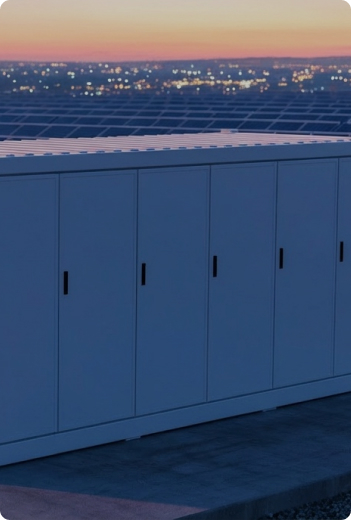
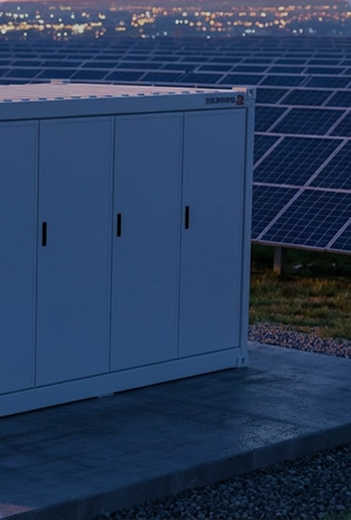
feat(web): mobile hero slide0 with headline, LithTech, centered layout
- Prepend slide0.jpg to mobile strip; title WE/SUPPLY/ENABLE/SUPPORT, powered-by row, text-center.

- Add slide0.jpg; refresh mobile slider images; i18n slide0 in all locales.

- Align Hero.mobile-cards-backup with slide0 + overlay on slide1.

Made-with: Cursor

diff --git a/apps/web/src/components/home/Hero.tsx b/apps/web/src/components/home/Hero.tsx
@@ -4,7 +4,10 @@ import { Trans, useTranslation } from 'react-i18next'
 import { ArrowRightIcon } from '../ArrowRightIcon'
 import { assetUrl } from '@/lib/assetUrl'
 
-const MOBILE_SLIDER_IMAGES = Array.from({ length: 8 }, (_, i) => assetUrl(`/images/mobile%20slider/slide${i + 1}.jpg`))
+const MOBILE_SLIDER_IMAGES = [
+  assetUrl('/images/mobile%20slider/slide0.jpg'),
+  ...Array.from({ length: 8 }, (_, i) => assetUrl(`/images/mobile%20slider/slide${i + 1}.jpg`)),
+]
 
 const HERO_SLIDER_TAB_KEYS = [
   'home.hero.sliderTabs.industrial',
@@ -87,7 +90,7 @@ export function Hero() {
           </h2>
         </div>
 
-        {/* Mobile: 8 cards — aspect ratio + percentage width */}
+        {/* Mobile: 9 cards (slide0 + slide1–8) — aspect ratio + percentage width */}
         <div className="-mx-4 flex w-[calc(100%+2rem)] gap-[10px] overflow-x-auto px-4 scrollbar-hide md:hidden">
           {MOBILE_SLIDER_IMAGES.map((src, i) => (
             <div key={i} className="relative aspect-[320/500] w-[85vw] min-w-[85vw] shrink-0 sm:w-[75vw] sm:min-w-[75vw]">
@@ -98,7 +101,7 @@ export function Hero() {
                 className="absolute inset-0 h-full w-full rounded-[10px] object-cover"
                 draggable={false}
               />
-              {i > 1 ? <div className="absolute inset-0 rounded-[10px] bg-black/40" aria-hidden /> : null}
+              {i > 2 ? <div className="absolute inset-0 rounded-[10px] bg-black/40" aria-hidden /> : null}
               {i === MOBILE_SLIDER_IMAGES.length - 1 ? (
                 <div className="absolute left-0 top-0 pt-4 pl-4" aria-hidden>
                   <svg className="h-6 w-6 text-white sm:h-7 sm:w-7" viewBox="0 0 24 24" fill="none" stroke="currentColor" strokeWidth="2" strokeLinecap="round" strokeLinejoin="round">
@@ -113,6 +116,25 @@ export function Hero() {
                 </div>
               )}
               {i === 0 && (
+                <div className="absolute inset-x-0 bottom-0 flex flex-col items-center justify-end gap-3 px-4 pb-8 pt-4 text-center">
+                  <h3 className="font-heading whitespace-pre-line text-3xl font-black uppercase leading-tight tracking-tight text-white sm:text-4xl">
+                    {t('home.heroSlides.slide0.title')}
+                  </h3>
+                  <div className="flex flex-wrap items-center justify-center gap-1.5 font-nunito text-xs font-normal text-white/90">
+                    <span>{t('home.hero.poweredByLabel')}</span>
+                    <a
+                      href="https://www.ltc-energy.com/"
+                      target="_blank"
+                      rel="noopener noreferrer"
+                      className="transition-opacity hover:opacity-100"
+                      aria-label="LithTech"
+                    >
+                      <img src={assetUrl('/images/lithtech-logo-white 3.png')} alt="LithTech" className="h-4 w-auto object-contain sm:h-5" />
+                    </a>
+                  </div>
+                </div>
+              )}
+              {i === 1 && (
                 <div className="absolute inset-x-0 bottom-0 flex flex-col items-end justify-end gap-3 px-4 pb-8 pt-4 text-right">
                   <h3 className="font-heading whitespace-pre-line text-3xl font-black uppercase leading-tight tracking-tight text-white sm:text-4xl">
                     {t('home.heroSlides.slide1.title')}
@@ -131,14 +153,14 @@ export function Hero() {
                   </div>
                 </div>
               )}
-              {i === 1 && (
+              {i === 2 && (
                 <div className="absolute inset-x-0 bottom-0 flex flex-col items-start justify-end px-4 pb-8 pt-4 text-left">
                   <p className="font-body text-base font-normal leading-relaxed text-white/95 sm:text-lg">
                     {t('home.heroSlides.slide1.subtitle')}
                   </p>
                 </div>
               )}
-              {i === 2 && (
+              {i === 3 && (
                 <div className="absolute inset-x-0 bottom-0 flex flex-col items-end justify-end gap-3 px-4 pb-8 pt-4 text-right">
                   <h3 className="font-heading whitespace-pre-line text-3xl font-black uppercase leading-tight tracking-tight text-white sm:text-4xl">
                     {t('home.heroSlides.slide2.title')}
@@ -157,14 +179,14 @@ export function Hero() {
                   </div>
                 </div>
               )}
-              {i === 3 && (
+              {i === 4 && (
                 <div className="absolute inset-x-0 bottom-0 flex flex-col items-start justify-end px-4 pb-8 pt-4 text-left">
                   <p className="font-body text-base font-normal leading-relaxed text-white/95 sm:text-lg">
                     {t('home.heroSlides.slide2.subtitle')}
                   </p>
                 </div>
               )}
-              {i === 4 && (
+              {i === 5 && (
                 <div className="absolute inset-x-0 bottom-0 flex flex-col items-end justify-end gap-3 px-4 pb-8 pt-4 text-right">
                   <h3 className="font-heading whitespace-pre-line text-3xl font-black uppercase leading-tight tracking-tight text-white sm:text-4xl">
                     {t('home.heroSlides.slide5.title')}
@@ -183,14 +205,14 @@ export function Hero() {
                   </div>
                 </div>
               )}
-              {i === 5 && (
+              {i === 6 && (
                 <div className="absolute inset-x-0 bottom-0 flex flex-col items-start justify-end px-4 pb-8 pt-4 text-left">
                   <p className="font-body text-base font-normal leading-relaxed text-white/95 sm:text-lg">
                     {t('home.heroSlides.slide5.subtitle')}
                   </p>
                 </div>
               )}
-              {i === 6 && (
+              {i === 7 && (
                 <div className="absolute inset-x-0 bottom-0 flex flex-col items-end justify-end gap-3 px-4 pb-8 pt-4 text-right">
                   <h3 className="font-heading whitespace-pre-line text-3xl font-black uppercase leading-tight tracking-tight text-white sm:text-4xl">
                     {t('home.heroSlides.slide3.title')}
@@ -209,7 +231,7 @@ export function Hero() {
                   </div>
                 </div>
               )}
-              {i === 7 && (
+              {i === 8 && (
                 <div className="absolute inset-x-0 bottom-0 flex flex-col items-start justify-end px-4 pb-8 pt-4 text-left">
                   <p className="font-body text-base font-normal leading-relaxed text-white/95 sm:text-lg">
                     {t('home.heroSlides.slide3.subtitle')}

diff --git a/apps/web/src/components/home/Hero.mobile-cards-backup.tsx b/apps/web/src/components/home/Hero.mobile-cards-backup.tsx
@@ -1,11 +1,14 @@
 /**
- * Backup of Hero mobile layout — 8 horizontal cards with first card content overlay.
- * Restore by copying the mobile section (lines 51–100) back into Hero.tsx
+ * Backup of Hero mobile layout — horizontal cards with content overlay on slide1 (after slide0).
+ * Restore by copying the mobile section from Hero.tsx
  */
 import { useTranslation } from 'react-i18next'
 import { assetUrl } from '@/lib/assetUrl'
 
-const MOBILE_SLIDER_IMAGES = Array.from({ length: 8 }, (_, i) => assetUrl(`/images/mobile%20slider/slide${i + 1}.jpg`))
+const MOBILE_SLIDER_IMAGES = [
+  assetUrl('/images/mobile%20slider/slide0.jpg'),
+  ...Array.from({ length: 8 }, (_, i) => assetUrl(`/images/mobile%20slider/slide${i + 1}.jpg`)),
+]
 
 export function HeroMobileCardsBackup() {
   const { t } = useTranslation()
@@ -13,7 +16,7 @@ export function HeroMobileCardsBackup() {
   return (
     <section className="relative w-full bg-white">
       <div className="mx-auto w-full max-w-[1200px] px-4 pt-0 pb-8 sm:px-6 md:pt-12 lg:px-8">
-        {/* Mobile: 8 cards — break out of container, overflow visible */}
+        {/* Mobile: slide0 + slide1–8 — break out of container, overflow visible */}
         <div className="-mx-4 flex h-[500px] w-[calc(100%+2rem)] gap-[10px] overflow-x-auto px-4 md:hidden">
           {MOBILE_SLIDER_IMAGES.map((src, i) => (
             <div key={i} className="relative min-w-[320px] flex-1 shrink-0">
@@ -24,7 +27,7 @@ export function HeroMobileCardsBackup() {
                 className="absolute inset-0 h-full w-full rounded-[10px] object-cover"
                 draggable={false}
               />
-              {i === 0 && (
+              {i === 1 && (
                 <>
                   <div className="absolute inset-0 rounded-[10px] bg-black/70" aria-hidden />
                   <div className="absolute inset-0 flex flex-col justify-end px-4 pb-8">
